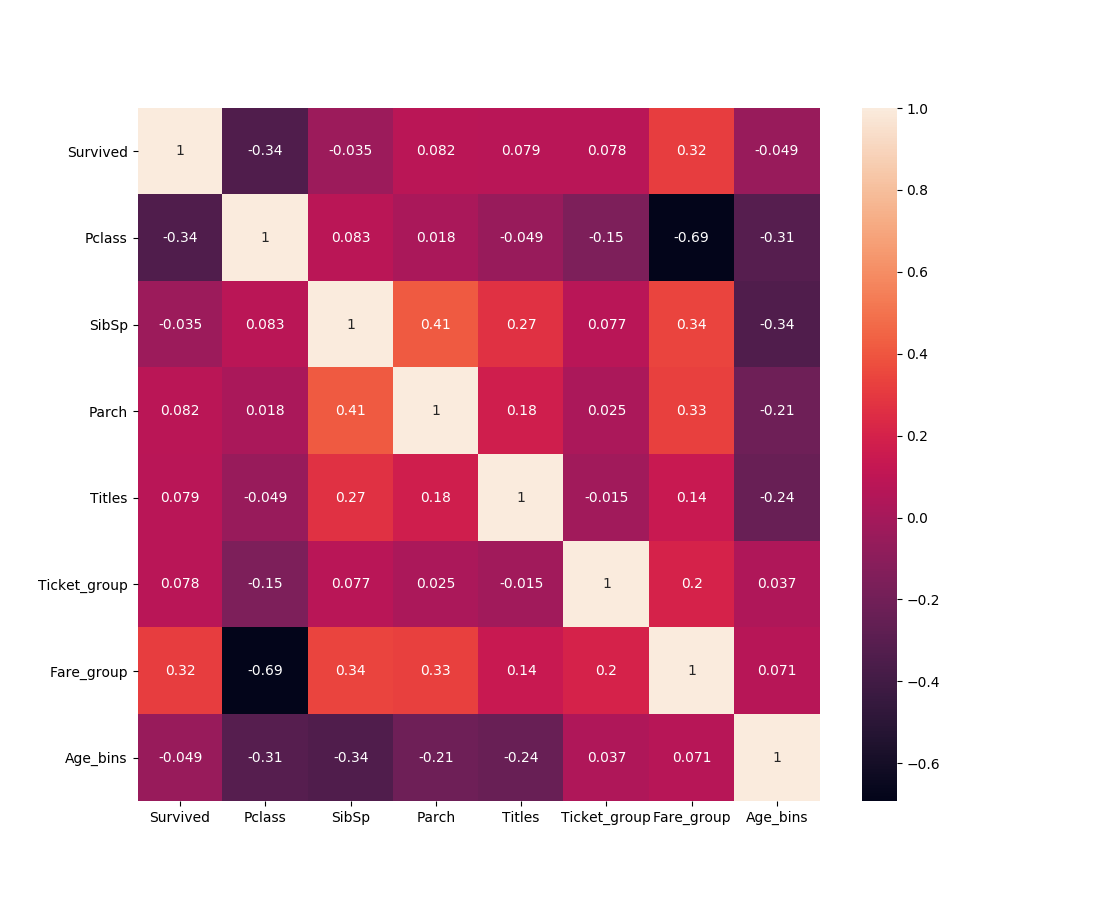
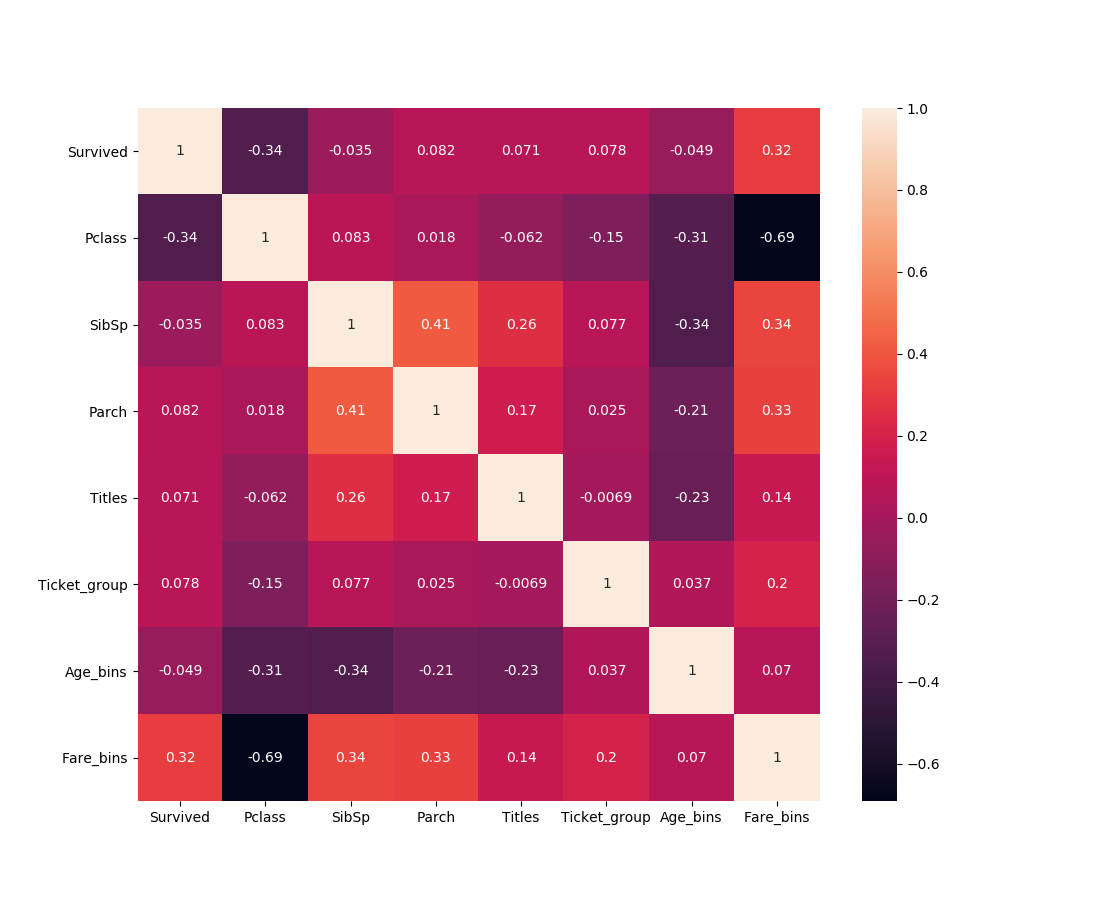
Cleanup

diff --git a/train.py b/train.py
@@ -3,33 +3,51 @@ import numpy as np
 import matplotlib.pyplot as plt
 import seaborn as sn
 
+from collections import Counter
+
 from sklearn.linear_model import LogisticRegression
 from sklearn.ensemble import RandomForestClassifier
 from sklearn.impute import SimpleImputer
 from sklearn import preprocessing 
 from sklearn import metrics
 
+#####import data
 train = pd.read_csv("train.csv")
 test = pd.read_csv("test.csv")
-IDtest = test["PassengerId"]
 
+#####Fill empty cells with nan
 train['Age'] = train['Age'].replace('NaN', np.nan)
 test['Age'] = test['Age'].replace('NaN', np.nan)
 
-titels = ('Mlle.', 'Dr.', 'Master.', 'Col.', 'Rev.', 'Sir.', 'Lady.', 'Major.', 'Mme.', 'Capt.')
+#####Show data statistics
+print(train.describe())
+print(test.describe())
 
+###dataset statistics for age and fare, since data are missing
 print(train.groupby('SibSp', as_index=False)['Age'].mean())
 print(train.groupby('Parch', as_index=False)['Age'].mean())
+print(train.groupby('Pclass', as_index=False)['Fare'].mean())
 
+#####count titles
+titles = []
+for i in train['Name']:
+	string = i.split(',', 1)[1]
+	titles.append(string.split('.')[0])
+print(Counter(titles))
+titels = ('Master.','Dr.','Rev.','Major.','Mlle.','Col.','Don.','Mme.','Lady.','Sir.','Capt.', 'the Countess.', 'Jonkheer.')
+
+######Fill empty numerical values and transform ticket into groups
 k=0
 for i in train['PassengerId']:
 	string = (train.iloc[k,3])
 	train.at[k, 'Name'] = string.split(',', 1)[0]
 	train.at[k, 'Titles'] = 0
-	for i in string.split(' '):
+
+	for i in string.split(' '):		###extract titels from names
 		if i in titels:
-			train.at[k, 'Titles'] = 1	
-	if pd.isna(train.at[k, 'Age']):
+			train.at[k, 'Titles'] = 1
+
+	if pd.isna(train.at[k, 'Age']):			###deal with unknown age
 		if train.iloc[k,6] < 2:
 			if train.iloc[k,7] > 2:
 				train.at[k, 'Age'] = train.loc[train['Parch'] > 2, 'Age'].mean()
@@ -40,7 +58,15 @@ for i in train['PassengerId']:
 		if train.iloc[k,6] > 2:
 			train.at[k, 'Age'] = train.loc[train['SibSp'] > 2, 'Age'].mean()
 
-	try:
+	if pd.isna(train.at[k, 'Fare']):		###deal with unknown fare
+		if train.at[k, 'Pclass'] == 1:
+			train.at[k, 'Fare'] = train.loc[train['Pclass'] == 1, 'Fare'].mean()
+		elif train.at[k, 'Pclass'] == 2:
+			train.at[k, 'Fare'] = train.loc[train['Pclass'] == 2, 'Fare'].mean()
+		else:
+			train.at[k, 'Fare'] = train.loc[train['Pclass'] == 3, 'Fare'].mean()
+
+	try:			####transform tickets into groups
 		integer = int(train.iloc[k,8])
 		if integer > 99999:
 			train.at[k, 'Ticket_group'] = 0
@@ -48,15 +74,6 @@ for i in train['PassengerId']:
 			train.at[k, 'Ticket_group'] = 1
 	except ValueError:
 		train.at[k, 'Ticket_group'] = 2
-
-	if train.iloc[k,9] < 8:
-		train.at[k, 'Fare_group'] = 0
-	elif train.iloc[k,9] < 16:
-		train.at[k, 'Fare_group'] = 1
-	elif train.iloc[k,9] < 50:
-		train.at[k, 'Fare_group'] = 2
-	else:
-		train.at[k, 'Fare_group'] = 3
 	k+=1
 
 k=0
@@ -64,10 +81,12 @@ for i in test['PassengerId']:
 	string = (test.iloc[k,2])
 	test.at[k, 'Name'] = string.split(',', 1)[0]
 	test.at[k, 'Titles'] = 0
-	for i in string.split(' '):
+
+	for i in string.split(' '):			###extract titels from names
 		if i in titels:
-			test.at[k, 'Titles'] = 1	
-	if pd.isna(test.at[k, 'Age']):
+			test.at[k, 'Titles'] = 1
+
+	if pd.isna(test.at[k, 'Age']):		###deal with unknown age
 		if test.iloc[k,5] < 2:
 			if test.iloc[k,6] > 2:
 				test.at[k, 'Age'] = train.loc[train['Parch'] > 2, 'Age'].mean()
@@ -77,7 +96,16 @@ for i in test['PassengerId']:
 			test.at[k, 'Age'] = train.loc[train['SibSp'] == 2, 'Age'].mean()
 		if test.iloc[k,5] > 2:
 			test.at[k, 'Age'] = train.loc[train['SibSp'] > 2, 'Age'].mean()
-	try:
+
+	if pd.isna(test.at[k, 'Fare']):		###deal with unknown fare
+		if test.at[k, 'Pclass'] == 1:
+			test.at[k, 'Fare'] = train.loc[train['Pclass'] == 1, 'Fare'].mean()
+		elif test.at[k, 'Pclass'] == 2:
+			test.at[k, 'Fare'] = train.loc[train['Pclass'] == 2, 'Fare'].mean()
+		else:
+			test.at[k, 'Fare'] = train.loc[train['Pclass'] == 3, 'Fare'].mean()
+
+	try:		####transform tickets into groups
 		integer = int(test.iloc[k,7])
 		if integer > 99999:
 			test.at[k, 'Ticket_group'] = 0
@@ -85,36 +113,32 @@ for i in test['PassengerId']:
 			test.at[k, 'Ticket_group'] = 1
 	except ValueError:
 		test.at[k, 'Ticket_group'] = 2
-
-	if test.iloc[k,8] < 8:
-		test.at[k, 'Fare_group'] = 0
-	elif test.iloc[k,8] < 16:
-		test.at[k, 'Fare_group'] = 1
-	elif test.iloc[k,8] < 50:
-		test.at[k, 'Fare_group'] = 2
-	else:
-		test.at[k, 'Fare_group'] = 3
 	k+=1
 
+#####create bins for age and fare
+ageb=(0, 4, 16, 24, 30, 40, 80) ###bins for age
+train['Age_bins'] = pd.cut(x=train['Age'], bins=ageb, labels=False)
+test['Age_bins'] = pd.cut(x=test['Age'], bins=ageb, labels=False)
 
-train['Age_bins'] = pd.cut(x=train['Age'], bins=[0, 4, 16, 24, 30, 40, 80], labels=False)
-test['Age_bins'] = pd.cut(x=test['Age'], bins=[0, 4, 16, 24, 30, 40, 80], labels=False)
+fareb=(-np.inf, 8.0, 16.0, 50.0, 1000) ###bins for fare
+train['Fare_bins'] = pd.cut(x=train['Fare'], include_lowest=True, bins=fareb, labels=False)
+test['Fare_bins'] = pd.cut(x=test['Fare'], include_lowest=True, bins=fareb, labels=False)
 
-##print(correlation)
-
-print(train.describe())
-
-#Create Graphs and Heatmap for data
-
+#####Create Graphs and Heatmap for data
 train[['Age']].hist(bins=10)
 plt.savefig('graphs/age_hist.png')
 
-
-train[['Age_bins']].hist(bins=5)
+train[['Age_bins']].hist(bins=6)
 plt.savefig('graphs/age_bins_hist.png')
+
+train[['Fare_bins']].hist(bins=4)
+plt.savefig('graphs/fare_bins_hist.png')
 
 train = train.drop(["PassengerId","Cabin","Ticket","Name","Fare","Age"], axis=1)
 test = test.drop(["PassengerId","Cabin","Ticket","Name","Fare","Age"], axis=1)
+
+print(train.describe())
+print(test.describe())
 
 plt.close
 
@@ -127,28 +151,12 @@ plt.savefig('graphs/heatmap.png')
 plt.close
 x=0
 
-#####deal with nan
+#####deal with nan embarked
+imputer = SimpleImputer(missing_values=np.nan, strategy='most_frequent')
+imputer.fit(train[['Embarked']])
+train[['Embarked']]= imputer.transform(train[['Embarked']])
 
-print(pd.isnull(train).sum() > 0)
-print(pd.isnull(test).sum() > 0)
-
-columns_nan = ('Age_bins','Embarked')
-
-for column in columns_nan:
-	if column == 'Embarked':
-		strat ='most_frequent'
-	else:
-		strat ='mean'
-	imputer = SimpleImputer(missing_values=np.nan, strategy=strat)
-	imputer.fit(train[[column]])
-	train[[column]]= imputer.transform(train[[column]])
-
-	imputer = SimpleImputer(missing_values=np.nan, strategy=strat)
-	imputer.fit(test[[column]])
-	test[[column]]= imputer.transform(test[[column]])
-
-#transform categorial to numerical 
-
+#####transform categorial to numerical 
 label_encoder = preprocessing.LabelEncoder() 
 
 train['Sex']= label_encoder.fit_transform(train['Sex']) 
@@ -157,16 +165,14 @@ train['Embarked']= label_encoder.fit_transform(train['Embarked'])
 test['Sex']= label_encoder.fit_transform(test['Sex']) 
 test['Embarked']= label_encoder.fit_transform(test['Embarked'])
 
-#define training and test sets
-
+#####define training and test sets
 X_train = train.drop("Survived", axis=1)
 Y_train = train["Survived"]
 X_test  = test.copy()
 Y_test = pd.read_csv("gender_submission.csv")
 Y_test = Y_test.drop("PassengerId", axis=1)
 
-#fit data
-
+#####fit data
 logreg = LogisticRegression(max_iter=1000)
 logreg.fit(X_train, Y_train)
 Y_pred = logreg.predict(X_test)
